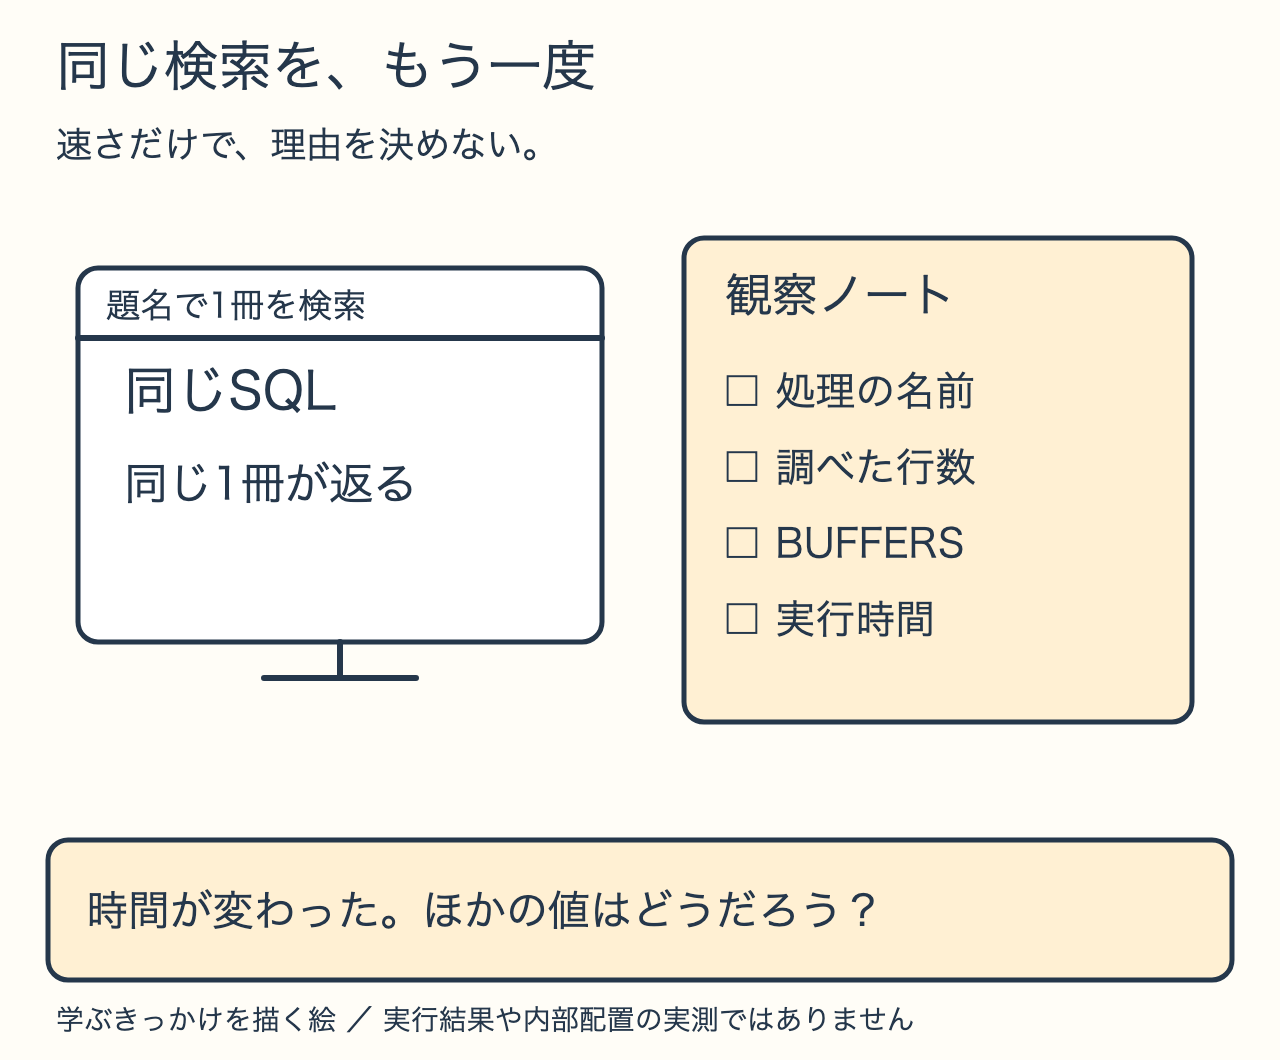
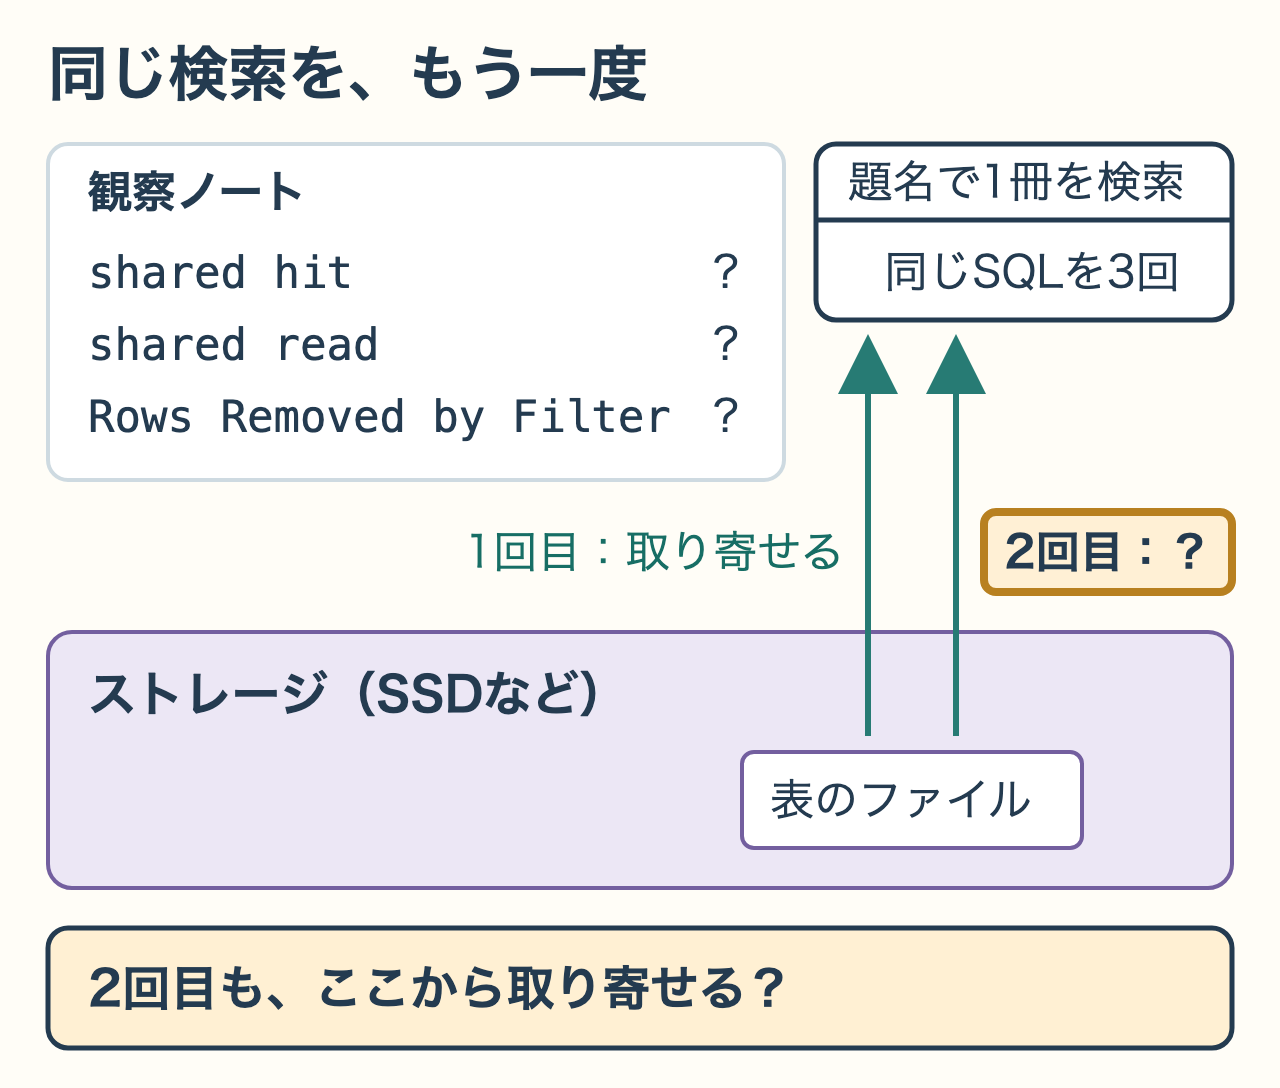
docs(query-journey): 第5章の入口の絵を、表のファイルと観察ノートの三つの項目で問う形にする
問いの箱が実験の前に「時間が変わった」と言い、観察ノートの地が問いの箱の色だった。表のファイルから取り寄せる1回目と「？」の2回目を描き、ノートの項目を106行目の予想の三つにした。副題と断り書きは外した。

diff --git a/books/postgresql-query-journey/05-memory-and-buffers.md b/books/postgresql-query-journey/05-memory-and-buffers.md
@@ -12,8 +12,8 @@ title: "第5章：同じページを、毎回ストレージから読むのか"
 
 繰り返した検索で、変わった値と変わらなかった値を、観察ノートに並べるつもりで比べてみます。
 
-![同じ検索を、もう一度](/images/postgresql-query-journey/04-repeat-observation.png)
-*学ぶきっかけを描く、説明用の場面。*
+![同じ検索を3回実行するとき、1回目は表のファイルからページを取り寄せる。2回目も取り寄せるのかを、shared hit・shared read・Rows Removed by Filterの三つで観察する](/images/postgresql-query-journey/04-repeat-observation.png)
+*2回目の「？」と、観察ノートの三つの項目を見てください。値は、この後の実行で確かめます。*
 
 ## ページを保存する場所と、検索で使う場所
 
